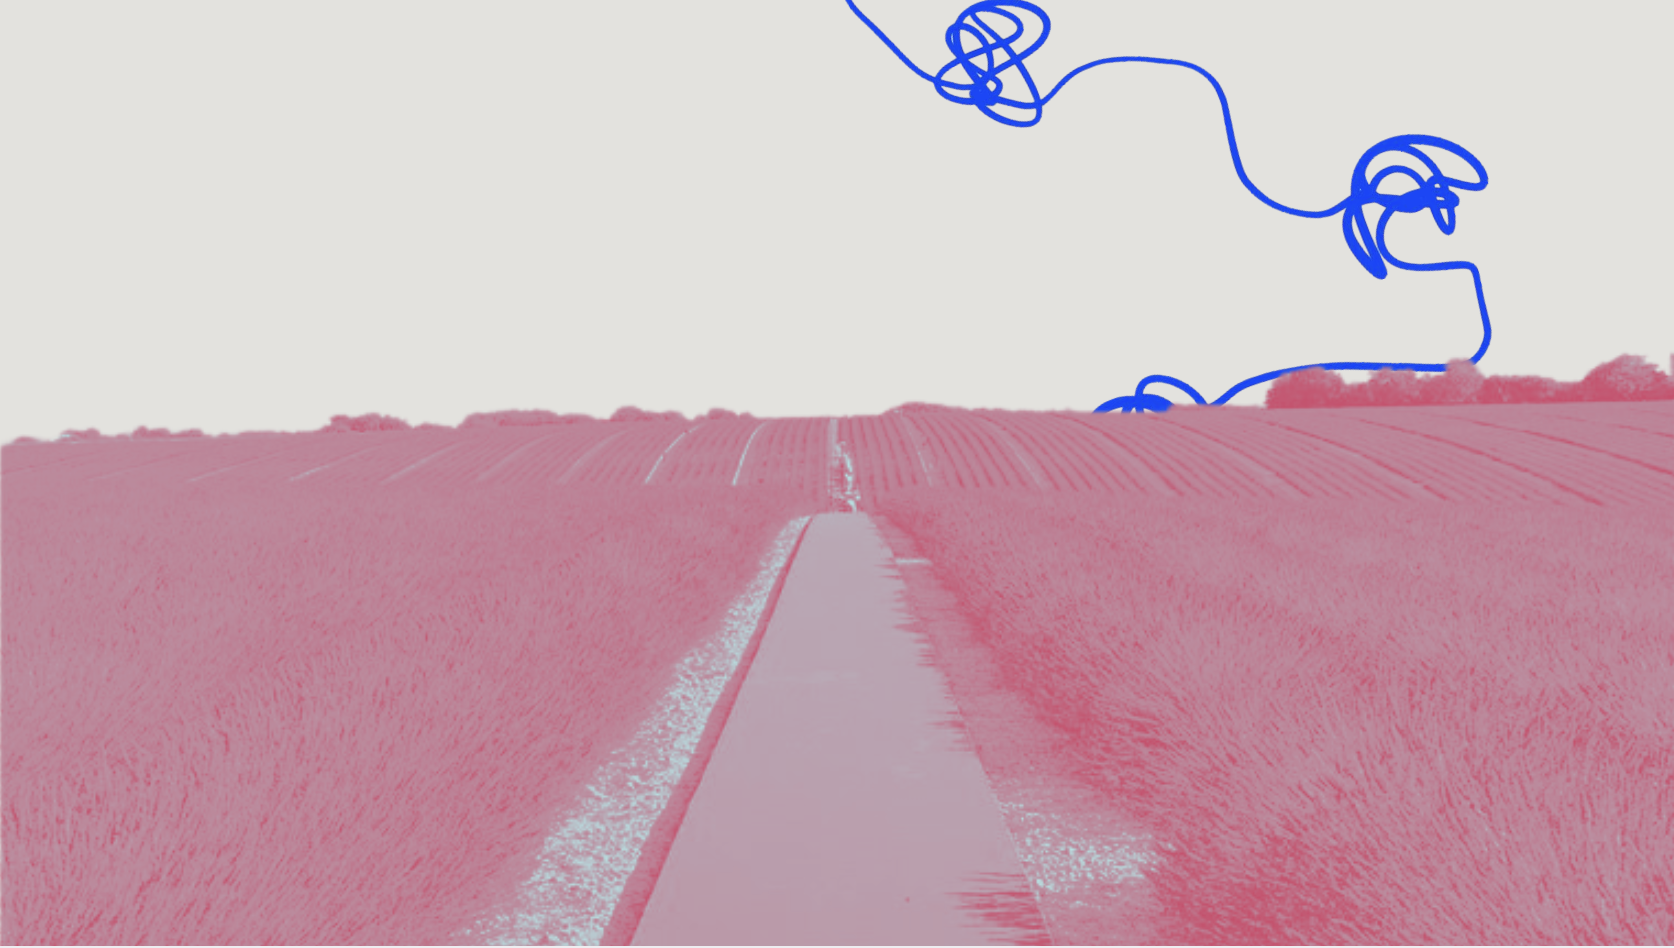
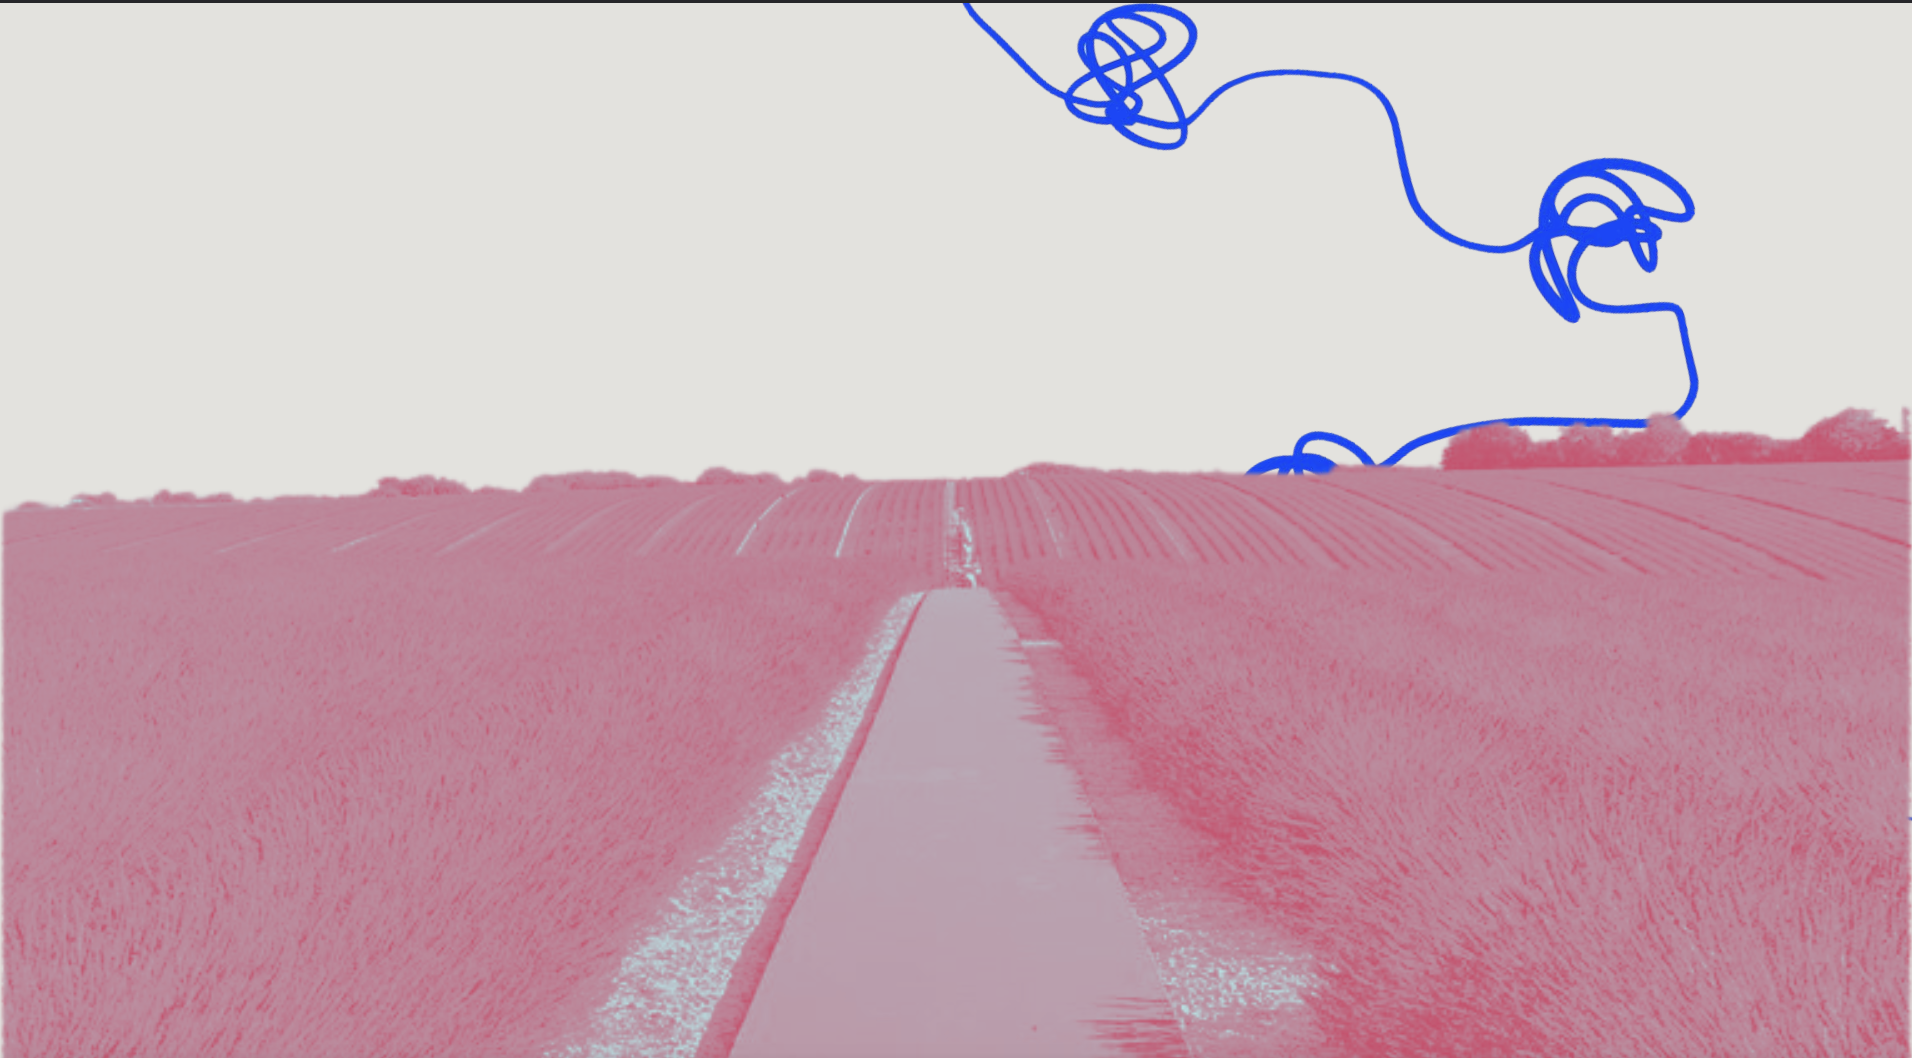
UI updates: maps deep link, color tweaks, survey cleanup
- Add Yandex Maps app deep link (yandexmaps://) with web fallback on mobile
- Update "Дорогие друзья!" and doodle line color to #c4405e
- Update contact page subtitle color to white (matches heading)
- Remove Google Form iframe toggle from Survey, show inline form only

diff --git a/app/components/Survey.tsx b/app/components/Survey.tsx
@@ -6,7 +6,6 @@ const GOOGLE_SCRIPT_URL = 'https://script.google.com/macros/s/AKfycbx8hhV2hRu7Un
 
 export default function Survey() {
   const [isSubmitted, setIsSubmitted] = useState(false)
-  const [useIframe, setUseIframe] = useState(false)
   const [isLoading, setIsLoading] = useState(false)
   const [error, setError] = useState('')
 
@@ -137,82 +136,7 @@ export default function Survey() {
             </p>
           </div>
 
-          <div style={{
-            display: 'flex',
-            justifyContent: 'center',
-            gap: '15px',
-            marginBottom: '30px',
-          }}>
-            <button
-              onClick={() => setUseIframe(true)}
-              className={useIframe ? 'button-primary' : 'button-outline'}
-              style={{ fontSize: '0.9rem', fontFamily: "'Nunito Sans', sans-serif", fontWeight: 400 }}
-            >
-              Через Google Form
-            </button>
-            <button
-              onClick={() => setUseIframe(false)}
-              className={!useIframe ? 'button-primary' : 'button-outline'}
-              style={{ fontSize: '0.9rem', fontFamily: "'Nunito Sans', sans-serif", fontWeight: 400 }}
-            >
-              Заполнить на сайте
-            </button>
-          </div>
-
-          {useIframe ? (
-            <div style={{
-              backgroundColor: '#ffffff',
-              borderRadius: '24px',
-              boxShadow: '0 8px 30px rgba(0, 0, 0, 0.15)',
-              padding: '40px',
-              textAlign: 'left',
-            }}>
-              <div style={{
-                backgroundColor: 'rgba(232, 184, 96, 0.2)',
-                padding: '20px',
-                borderRadius: '16px',
-                marginBottom: '20px',
-              }}>
-                <p style={{
-                  fontSize: '0.9rem',
-                  color: '#2c2c2c',
-                  lineHeight: 1.6,
-                  fontFamily: "'Nunito Sans', sans-serif",
-                  fontWeight: 400,
-                }}>
-                  <strong>Для организатора:</strong> Чтобы анкета работала и результаты записывались в Google Таблицу:
-                </p>
-                <ol style={{
-                  fontSize: '0.9rem',
-                  color: '#2c2c2c',
-                  lineHeight: 1.6,
-                  marginTop: '10px',
-                  paddingLeft: '20px',
-                  fontFamily: "'Nunito Sans', sans-serif",
-                  fontWeight: 400,
-                }}>
-                  <li>Создайте форму на <a href="https://forms.google.com" target="_blank" rel="noopener noreferrer" style={{ color: '#b8505f' }}>forms.google.com</a></li>
-                  <li>С вопросами: Имя, Присутствие, Напитки, Аллергия</li>
-                  <li>Нажмите Отправить - скопируйте URL iframe</li>
-                  <li>Вставьте URL в файл app/components/Survey.tsx в переменную GOOGLE_FORM_URL</li>
-                </ol>
-              </div>
-
-              <iframe
-                src={GOOGLE_SCRIPT_URL}
-                width="100%"
-                height="800"
-                style={{
-                  border: 'none',
-                  borderRadius: '16px',
-                }}
-                title="Анкета гостя"
-              >
-                Загрузка формы...
-              </iframe>
-            </div>
-          ) : (
-            <form onSubmit={handleSubmit} style={{
+          <form onSubmit={handleSubmit} style={{
               backgroundColor: '#ffffff',
               borderRadius: '24px',
               boxShadow: '0 8px 30px rgba(0, 0, 0, 0.15)',
@@ -400,19 +324,8 @@ export default function Survey() {
               >
                 {isLoading ? 'Отправляем...' : 'Отправить ответ'}
               </button>
-            </form>
-          )}
+          </form>
 
-          <p style={{
-            fontSize: '0.85rem',
-            color: 'rgba(255,255,255,0.8)',
-            marginTop: '20px',
-            textAlign: 'center',
-            fontFamily: "'Nunito Sans', sans-serif",
-            fontWeight: 400,
-          }}>
-            Для записи в Google Таблицу переключитесь на режим Через Google Form и следуйте инструкции
-          </p>
         </div>
       </div>
     </div>

diff --git a/app/components/WeddingDetails.tsx b/app/components/WeddingDetails.tsx
@@ -1,5 +1,19 @@
 'use client'
 
+const MAPS_WEB_URL = 'https://yandex.ru/maps/org/gelendzhik_golf_rezort/112258572117'
+const MAPS_APP_URL = 'yandexmaps://maps.yandex.ru/?oid=112258572117&ol=biz'
+
+function openMaps(e: React.MouseEvent<HTMLAnchorElement>) {
+  e.preventDefault()
+  if (/iPhone|iPad|iPod|Android/i.test(navigator.userAgent)) {
+    const fallback = setTimeout(() => { window.location.href = MAPS_WEB_URL }, 1500)
+    window.addEventListener('blur', () => clearTimeout(fallback), { once: true })
+    window.location.href = MAPS_APP_URL
+  } else {
+    window.open(MAPS_WEB_URL, '_blank')
+  }
+}
+
 export default function WeddingDetails() {
   return (
     <section id="details" style={{ position: 'relative', padding: '80px 20px', overflow: 'hidden' }}>
@@ -31,7 +45,7 @@ export default function WeddingDetails() {
         <div style={{ animation: 'fadeInUp 0.8s ease-out forwards' }}>
           <h2 style={{
             fontSize: 'clamp(2.2rem, 6vw, 3.5rem)',
-            color: '#2b52a3',
+            color: '#c4405e',
             marginBottom: '15px',
             fontFamily: "'Comfortaa', cursive",
             fontWeight: 400,
@@ -40,7 +54,7 @@ export default function WeddingDetails() {
             Дорогие друзья!
           </h2>
 
-          <div className="doodle-line" />
+          <div className="doodle-line" style={{ background: '#c4405e' }} />
 
           <p style={{
             fontSize: 'clamp(1.1rem, 2.5vw, 1.3rem)',
@@ -111,7 +125,7 @@ export default function WeddingDetails() {
                     fontFamily: "'Nunito Sans', sans-serif",
                     fontWeight: 400,
                   }}>
-                    <a href="https://yandex.ru/maps/org/gelendzhik_golf_rezort/112258572117?si=vzup2y74ufbvhdnhkc4343715m" target="_blank" rel="noopener noreferrer" style={{ color: '#2c2c2c', textDecoration: 'none', borderBottom: '1px dashed #2b52a3' }}>
+                    <a href={MAPS_WEB_URL} onClick={openMaps} rel="noopener noreferrer" style={{ color: '#2c2c2c', textDecoration: 'none', borderBottom: '1px dashed #2b52a3' }}>
                       Краснодарский край, г. Геленджик, ул. Стартовая, д. 1, корп. 2
                     </a>
                   </p>

diff --git a/app/components/Location.tsx b/app/components/Location.tsx
@@ -1,5 +1,19 @@
 'use client'
 
+const MAPS_WEB_URL = 'https://yandex.ru/maps/org/gelendzhik_golf_rezort/112258572117'
+const MAPS_APP_URL = 'yandexmaps://maps.yandex.ru/?oid=112258572117&ol=biz'
+
+function openMaps(e: React.MouseEvent<HTMLAnchorElement>) {
+  e.preventDefault()
+  if (/iPhone|iPad|iPod|Android/i.test(navigator.userAgent)) {
+    const fallback = setTimeout(() => { window.location.href = MAPS_WEB_URL }, 1500)
+    window.addEventListener('blur', () => clearTimeout(fallback), { once: true })
+    window.location.href = MAPS_APP_URL
+  } else {
+    window.open(MAPS_WEB_URL, '_blank')
+  }
+}
+
 export default function Location() {
   return (
     <section id="location" style={{ background: 'rgba(158, 168, 75, 0.8)', padding: '80px 20px' }}>
@@ -170,7 +184,7 @@ export default function Location() {
                 fontWeight: 400,
               }}>
                 <strong>Адрес:</strong>{' '}
-                <a href="https://yandex.ru/maps/org/gelendzhik_golf_rezort/112258572117?si=vzup2y74ufbvhdnhkc4343715m" target="_blank" rel="noopener noreferrer" style={{ color: '#2c2c2c', textDecoration: 'none', borderBottom: '1px dashed #9ea84b', cursor: 'pointer' }}>
+                <a href={MAPS_WEB_URL} onClick={openMaps} rel="noopener noreferrer" style={{ color: '#2c2c2c', textDecoration: 'none', borderBottom: '1px dashed #9ea84b', cursor: 'pointer' }}>
                   Краснодарский край, г. Геленджик, ул. Стартовая, д. 1, корп. 2
                 </a>
               </p>

diff --git a/app/components/Contacts.tsx b/app/components/Contacts.tsx
@@ -21,7 +21,7 @@ export default function Contacts() {
 
           <p style={{
             fontSize: '1.05rem',
-            color: '#F5A800',
+            color: '#ffffff',
             lineHeight: 1.7,
             maxWidth: '600px',
             margin: '0 auto 40px',